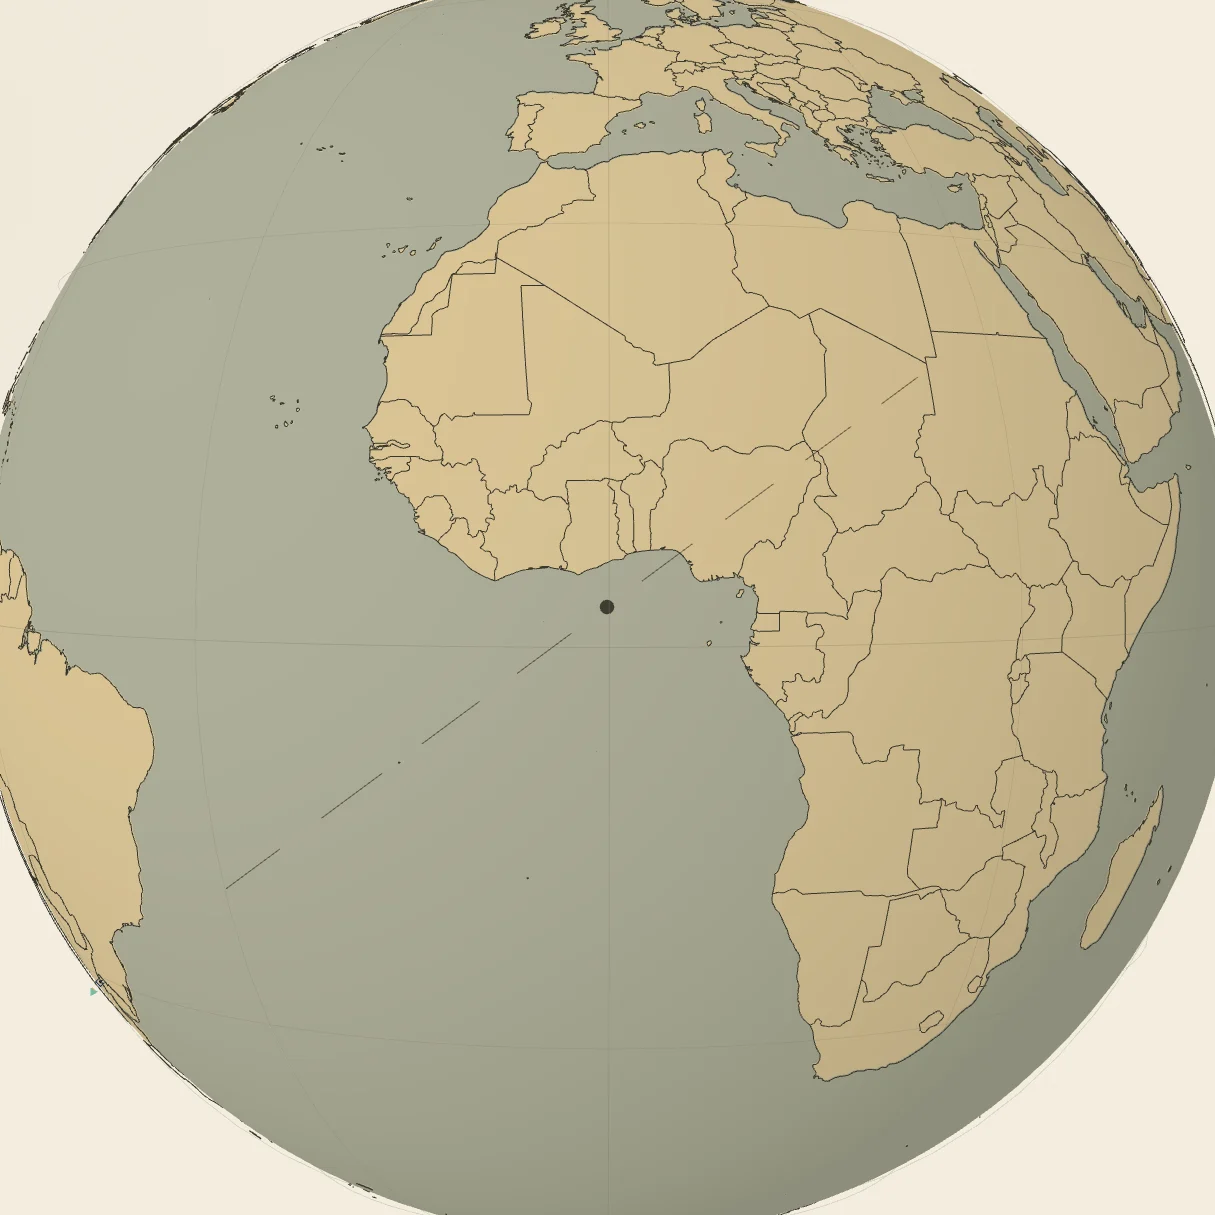
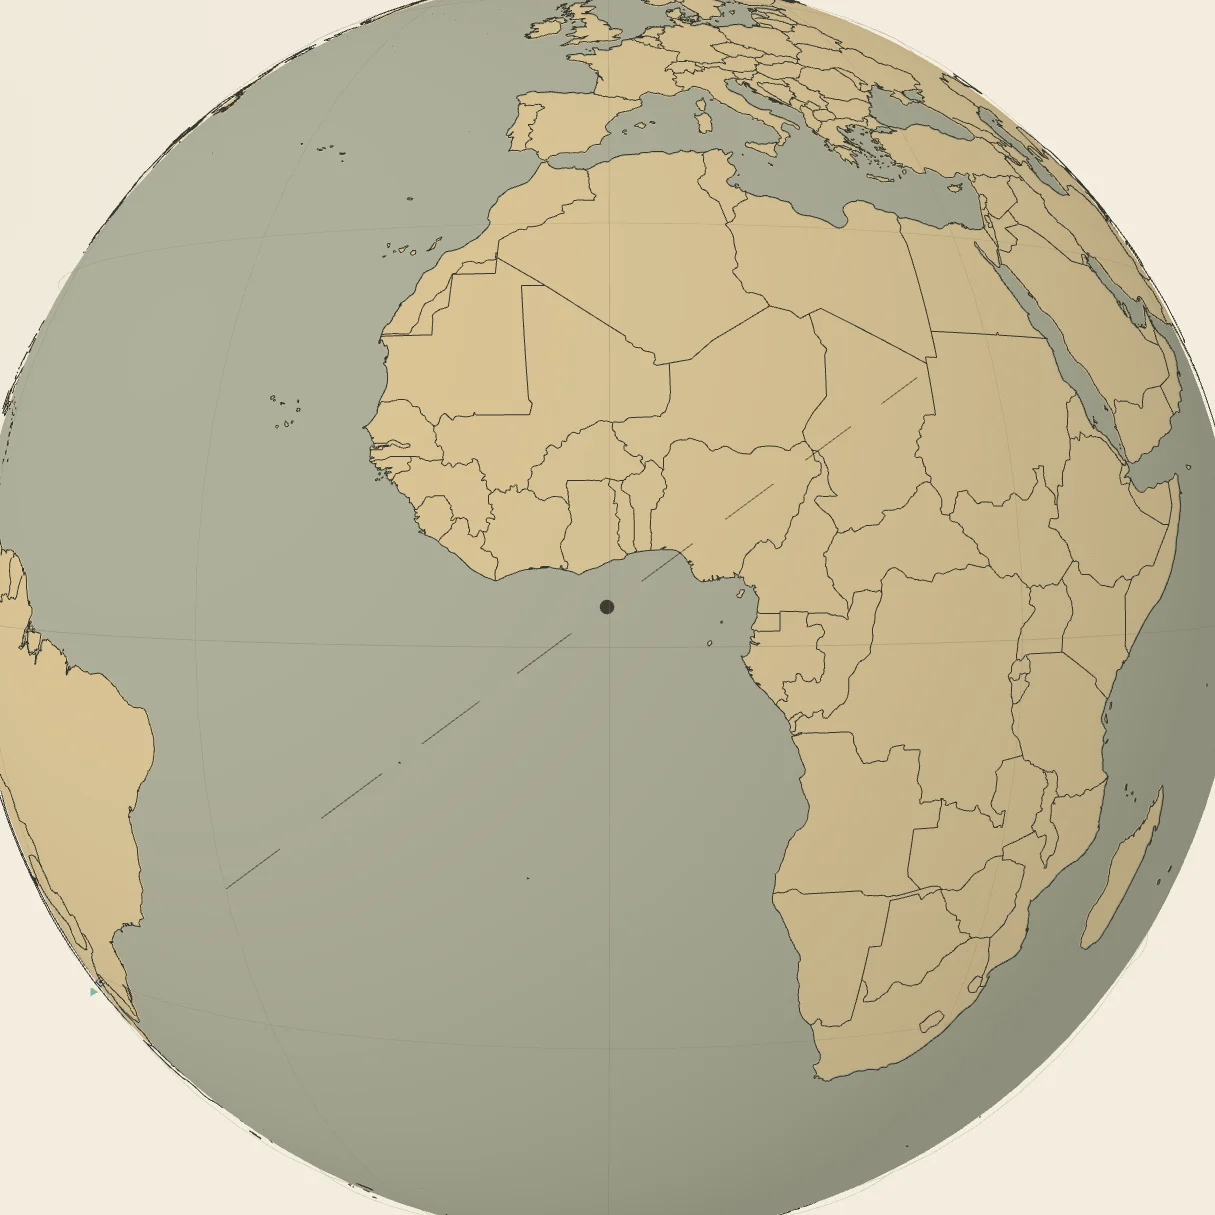
fix(verification): fail closed on Mundus media identity

diff --git a/tests/test_release_verification.py b/tests/test_release_verification.py
@@ -141,6 +141,9 @@ class TestProductCaseStudyFocus(unittest.TestCase):
             ],
         )
         self.assertEqual(manifest["panelOverflowCount"], 0)
+        self.assertEqual(manifest["consoleErrorCount"], 0)
+        self.assertEqual(manifest["pageErrorCount"], 0)
+        self.assertEqual(manifest["failedRequestCount"], 0)
         self.assertGreaterEqual(manifest["images"][1]["width"], 1920)
         self.assertEqual(
             len({item["sha256"] for item in manifest["images"]}),
